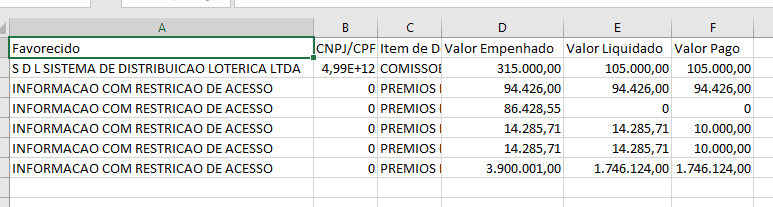
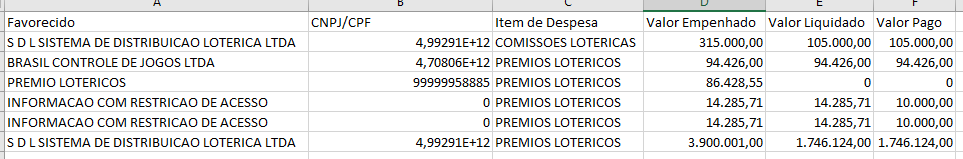
Homologa layout após correção Prodemge - Anonimização

diff --git a/espec001_anonimizacao-cpf/anonimizacao-cpf-homologa-layout.md b/espec001_anonimizacao-cpf/anonimizacao-cpf-homologa-layout.md
@@ -27,16 +27,36 @@ O método de anonimização deve ser aplicado nos resultados das consultas de De
 
 No entanto as informações devem ser armazenadas de forma completa no banco de dados do Portal, permitindo inclusive a realização de buscas nos campos anonimizados.
 
-<div class="alert alert-danger">
+<div class="alert alert-success">
 
-__FUNCIONALIDADE NÃO APLICADA__
+__CORRIGIDO__
 
-__Ao pesquisar um dado anonimizado (Nome ou CPF) no campo de busca do Portal o dado deve ser exibido.__  
+Ao pesquisar um dado anonimizado (Nome ou CPF) no campo de busca do Portal o dado deve ser exibido.
+
 
 Conforme o especificado, ao digitar o nome ou CPF de um credor que se enquadre no elemento-item 1302 na consulta por Favorecido por nome ou Favorecido por CPF/CNPJ o Portal deve exibir a consulta completa anonimizando os dados do favorecido.
 
-![](static/layout-busca-despesa.png)
+* Despesa
+![](static/layout-busca-despesa-corrigido.png)
+
+![](static/layout-busca-despesa-corrigido-cpf.png)
+</div>
+----
+
+<div class="alert alert-danger">
+
+* Restos a Pagar
+
+__A funcionalidade na consulta de restos a pagar foi aplicada apenas no campo "Favorecido por nome". Ao realizar a pesquisa por CNPJ/CPF os dados não são exibidos__
+ - CPF/Nome: ADRIANA APARECIDA DA SILVA - 036.321.236-16
+
+![](static/layout-busca-despesa-rp.png)
+
+http://homologa3.prodemge.gov.br/age7/despesa-estado/restos-a-pagar/restospagar-favorecidos/2020/0/0/03632123616/4
+
+![](static/layout-busca-despesa-rp-cpf.png)
   </div>
+
 Inicialmente cabe destacar que os registros do elemento item de despesa 3102 deverão ser novamente carregados na base de dados do Portal da Transparência.
 
 ## Método de anonimização
@@ -54,26 +74,33 @@ Dados OK
   </div>
 
 As regras acima devem ser aplicadas inclusive no caso em que o nome e CPF sejam apresentados no mesmo campo, como nos formulários de detalhamento apresentados acima.
-<div class="alert alert-danger">
 
-__A regra está anonimizando dados de CNPJ. No momento a funcionalidade deve ser aplicada apenas aos CPFs__
+<div class="alert alert-success">
+
+__CORRIGIDO__
+
+A regra está anonimizando dados de CNPJ. No momento a funcionalidade deve ser aplicada apenas aos CPFs
 
 Conforme Armazém BO apenas a natureza Jurídicia (1) Pessoa Física deve ser anonimizada.
 
 
 ![](static/layout-natureza-juridica-credor.png)
 
-![](static/layout-natureza-juridica-credor-portal.png)
+![](static/layout-natureza-juridica-credor-portal-corrigido.png)
 
+![](static/layout-natureza-juridica-credor-portal-rp.png)
   </div>
 
 No banco de dados do Portal da Transparência as informações de nome e CPF devem ser armazenadas sem anonimização, permitindo filtros que utilizem essas informações.
 
-<div class="alert alert-danger">
+<div class="alert alert-success">
 
-__Os dados na migalha devem ser anonimizados. No lugar do nome deve exibir " Informação com restrição de acesso"__
+__CORRIGIDO__
+Os dados na migalha devem ser anonimizados. No lugar do nome deve exibir " Informação com restrição de acesso"
 
-![](static/layout-migalha.png)
+![](static/layout-migalha-corrigido.png)
+
+![](static/layout-migalha-corrigido-rp.png)
 
   </div>
 
@@ -99,16 +126,16 @@ __Fomulário de detalhamento "Dados do Empenho" a funcionalidade não foi aplica
 ![](static/layout-formulario-detalha-despesa-corrigido.png)
   </div>
 
-<div class="alert alert-danger">
+<div class="alert alert-success">
 
-__NÃO CORRIGIDO__
+__CORRIGIDO__
 
 __Quando se tratar de natureza jurídica que não seja pessoa física os dados não devem ser anonimizados__
 
 Apenas os credores Pessoa Física devem ser anonimizados - Campo do BO Armazém (1 - Pessoa Física)
 ![](static/layout-campo-bo.png)
 
-![](static/layout-formulario-detalha-despesa2.png)
+![](static/layout-formulario-detalha-despesa2-corrigido.png)
 
 O empenho 65 refere-se a pessoa jurídica
 
@@ -134,7 +161,9 @@ O Portal está anonimizando dados de natureza jurídica diferente de pessoa fís
 
 <div class="alert alert-danger">
 
-__Ao realizar a anonimização, O Portal deve continuar apresentando as duas transações por se tratar de empenhos distintos. Na consulta avançada de despesa as informações estão sendo somadas__
+__NÃO CORRIGIDO__
+
+Ao realizar a anonimização, O Portal deve continuar apresentando as duas transações por se tratar de empenhos distintos. Na consulta avançada de despesa as informações estão sendo somadas
 
 [Pesquisa Avançada- 2019 -  Loteria Mineira de Minas Gerais --  Elemento-item  3102](http://homologa3.prodemge.gov.br/age7/despesa-estado/despesa/despesa-resultado-pesquisa-avancada/2019/01-01-2019/31-12-2019/9659/0/0/0/0/0/0/0/588/3455/0/0/0/0/0/0/0/0/0/0/1/1/0/0/1/0)
 
@@ -200,18 +229,14 @@ Ao acessar os formulários de detalhamento os seguintes campos devem ser anonimi
 
 * Campo ___Razão Social do Credor___ do formulário de empenho da despesa:
 
-![](static/empenho_despesa.png)
-
 <div class="alert alert-success">
 
-__Funcionalidade não foi aplicada__
+__OK__
 
 ![](static/layout-formulario-detalha-despesa-corrigido2.png)
   </div>
 
  * Campo ___CNPJ/CPF e Descrição do Favorecido___ do formulário de liquidação e pagamento:
-
-![](static/liquidacao_pagamento.png)
 
 <div class="alert alert-success">
 
@@ -223,7 +248,7 @@ __Funcionalidade OK__
 #### Pesquisa Avançada
 
 A anonimização deve ocorrer quando o usuário marcar o campo ___exibir favorecidos___.
-<div class="alert alert-danger">
+<div class="alert alert-success">
 
 __O Portal está anonimizando dados de natureza jurídica diferente de pessoa física__
 1. Despesa
